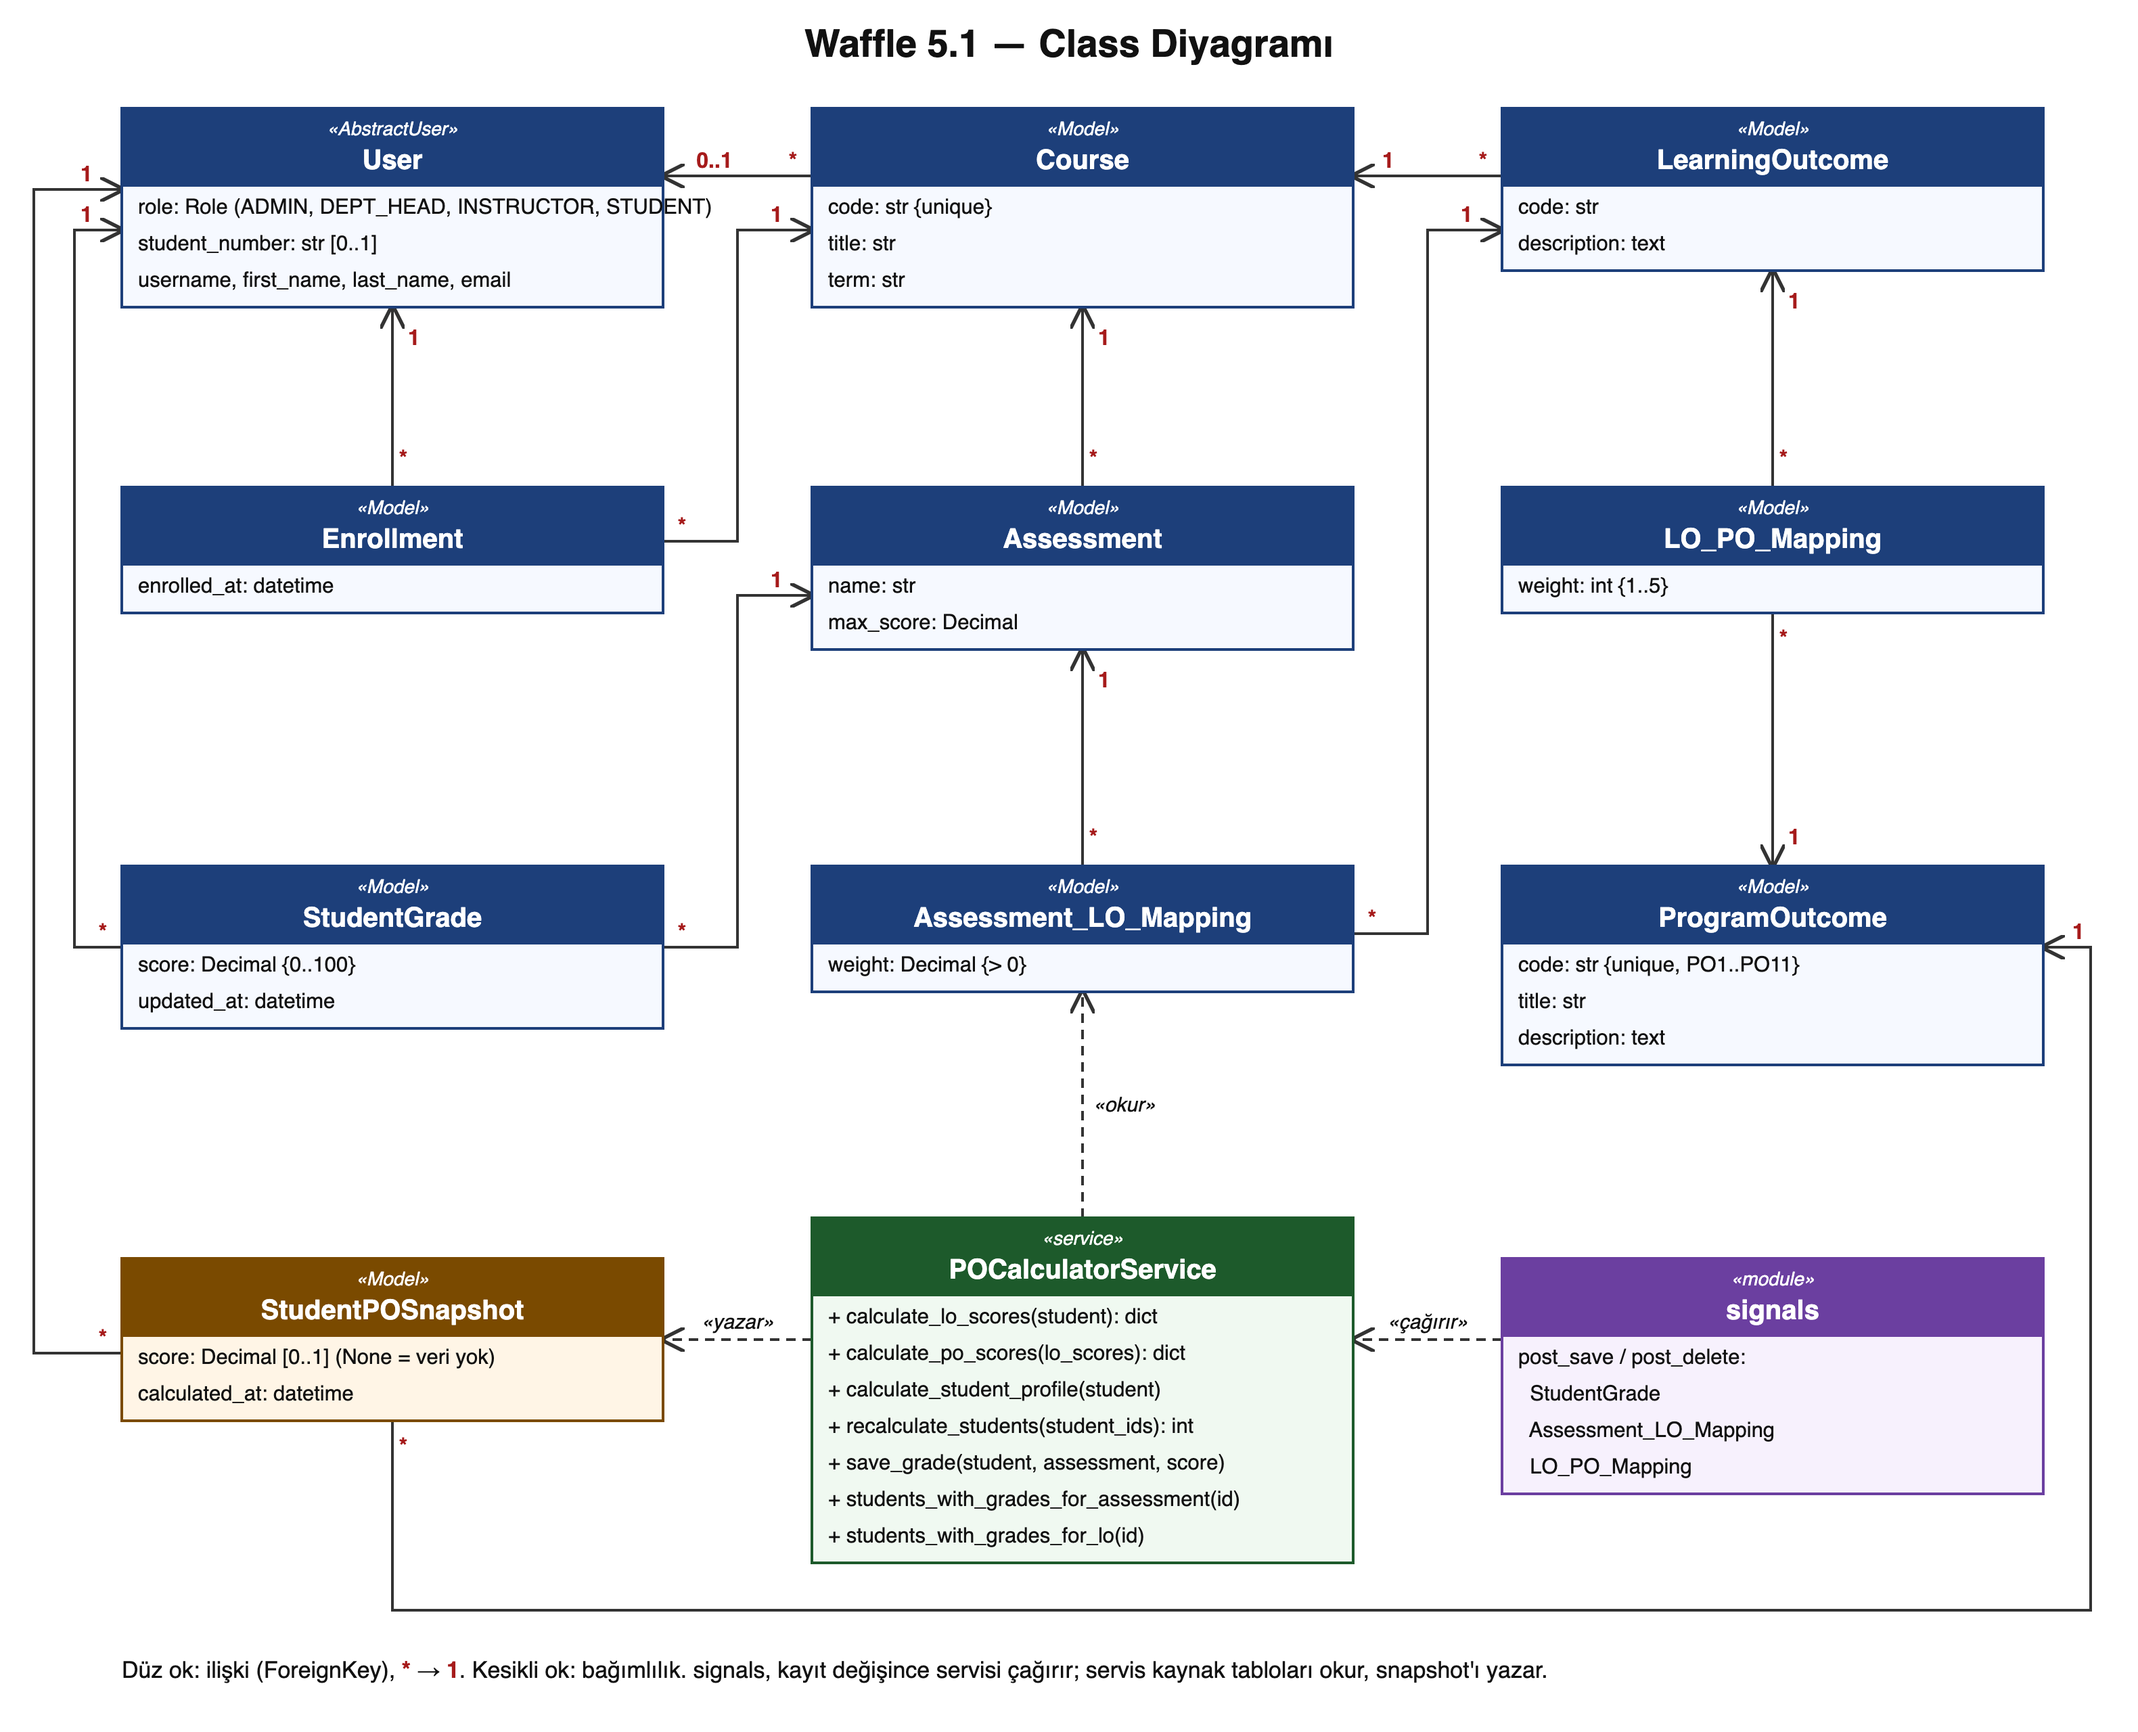
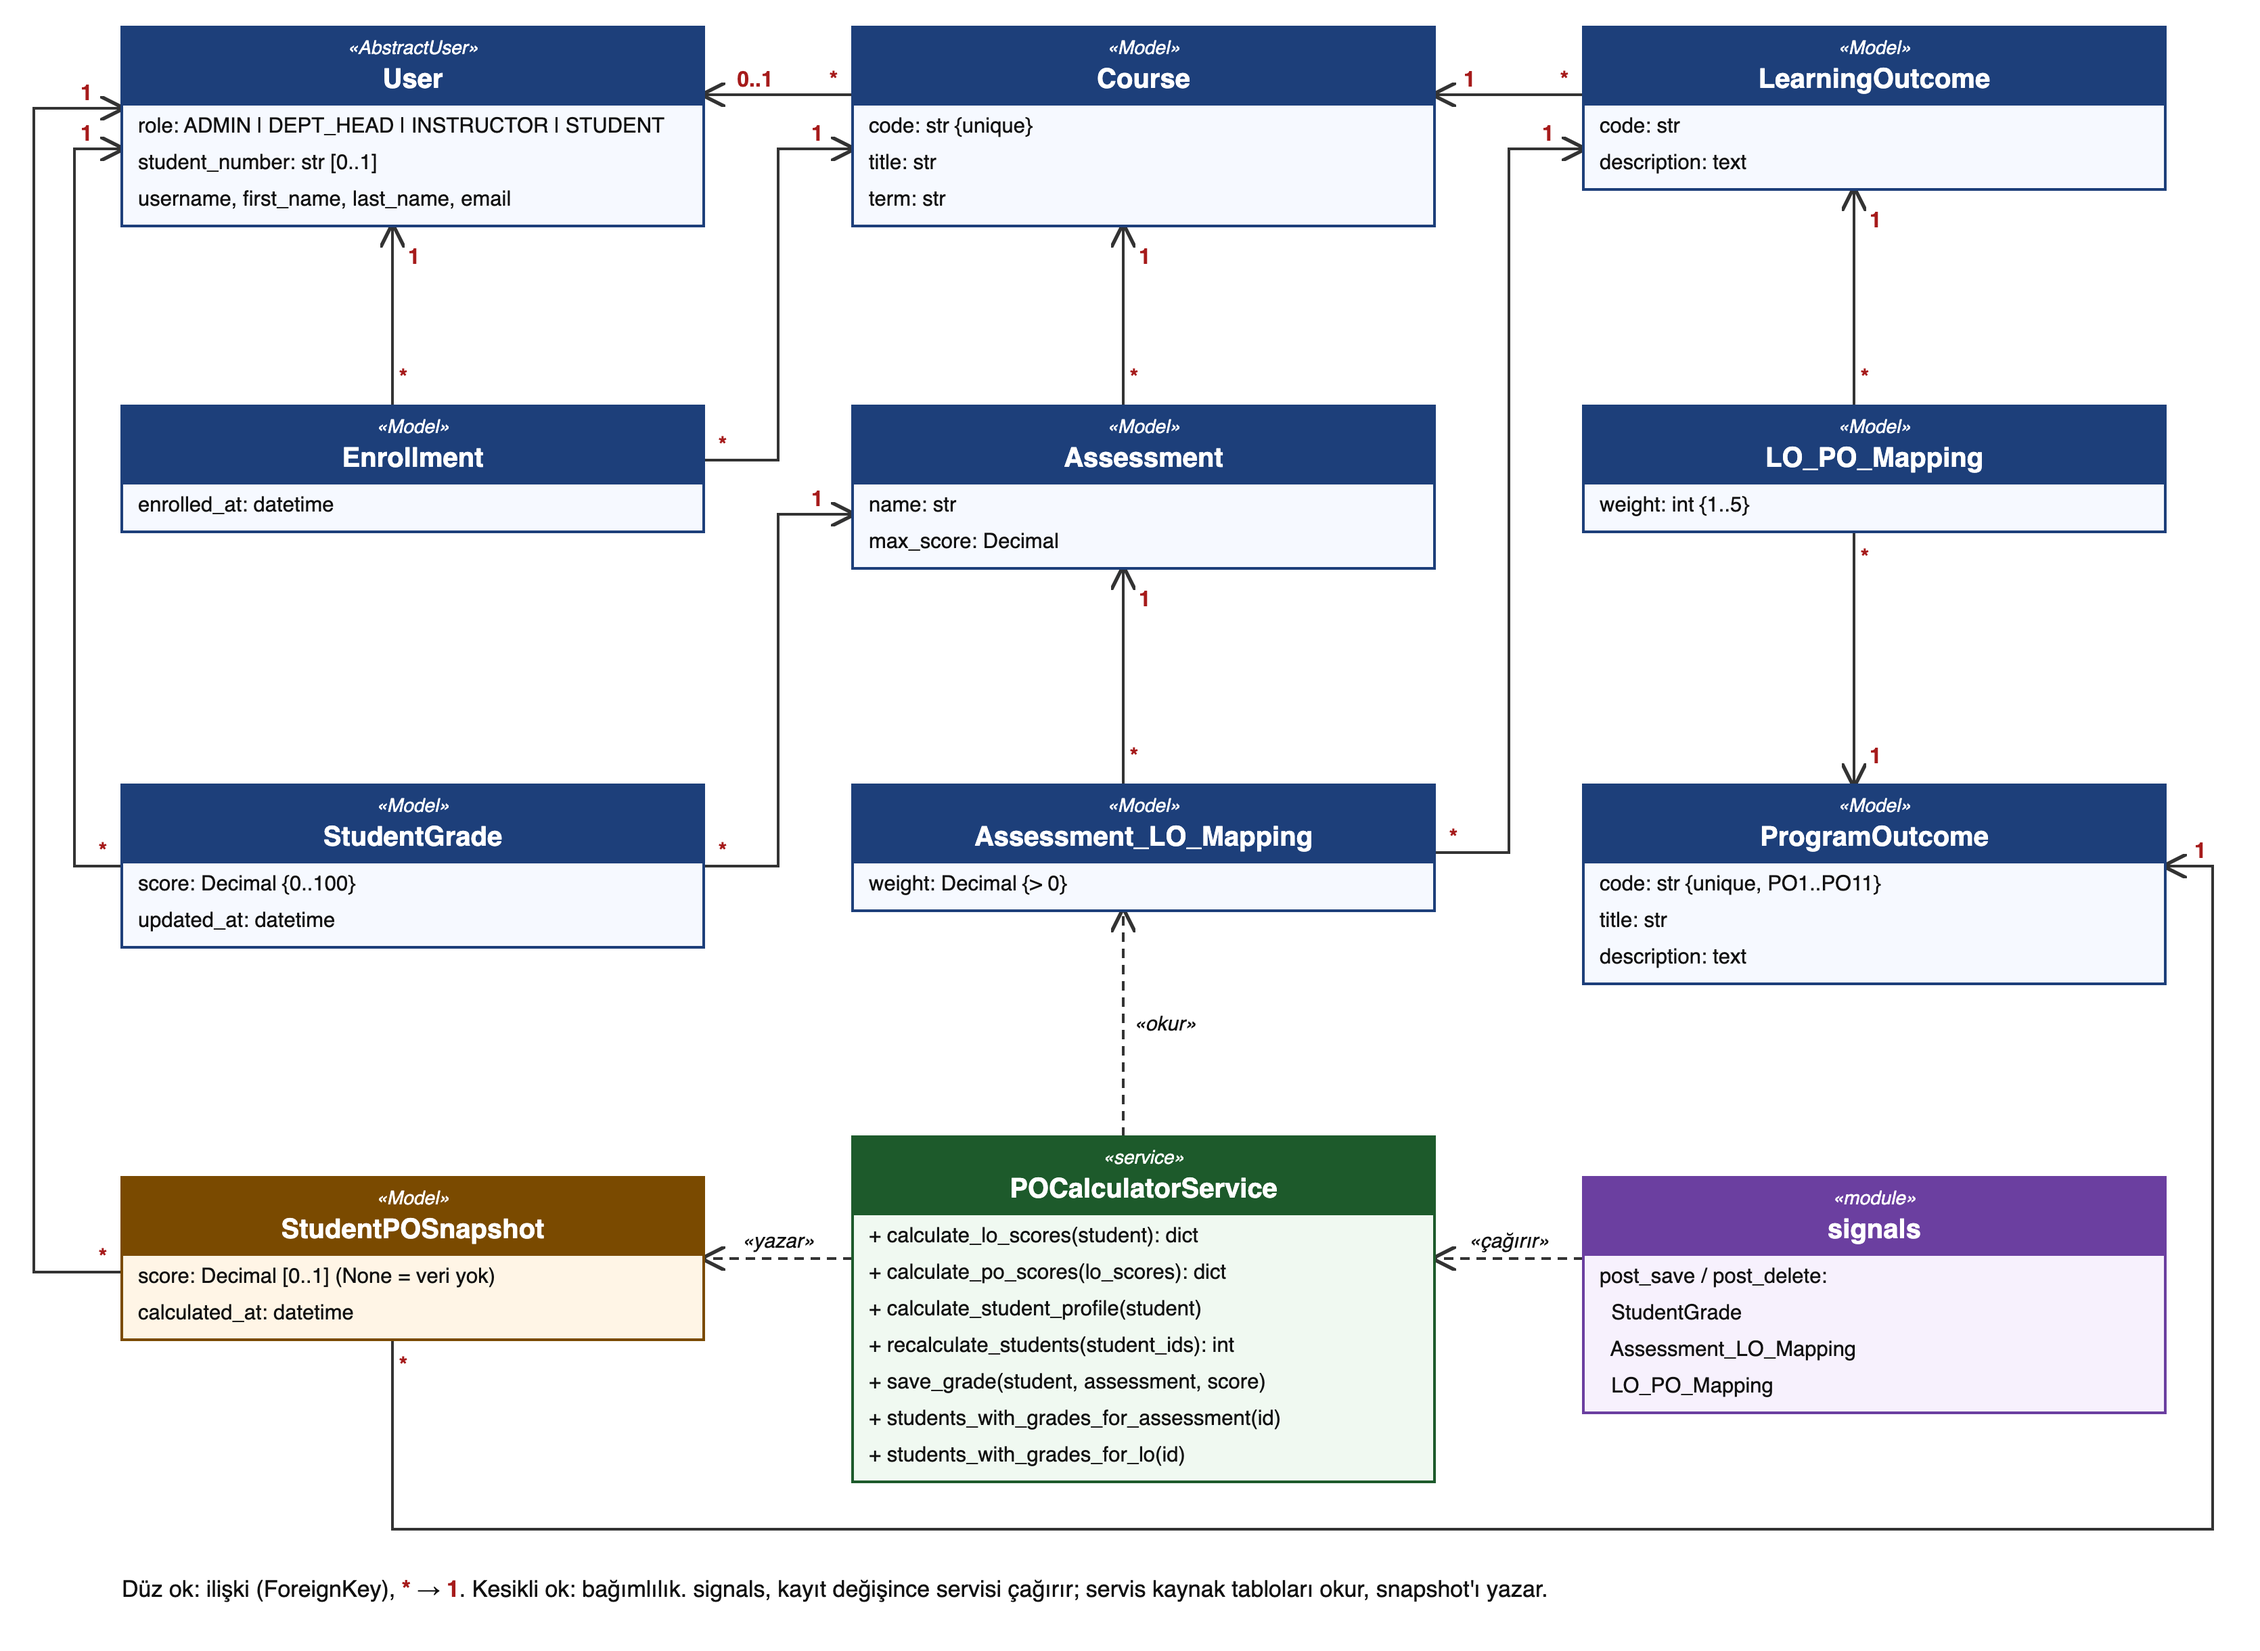
docs: widen class diagram boxes for print readability

diff --git a/docs/diagrams/_gen_class.py b/docs/diagrams/_gen_class.py
@@ -1,12 +1,12 @@
 """Class diyagramını (class.svg) üretir:  python docs/diagrams/_gen_class.py"""
 from pathlib import Path
 
-W, RH, HH = 400, 27, 42
+W, RH, HH = 430, 27, 42
 FS = 15
-C1, C2, C3 = 90, 600, 1110
+C1, C2, C3 = 90, 630, 1170
 # ad: (x, y, stereotype, alanlar, metotlar)
 T = {
-    "User": (C1, 80, "AbstractUser", ["role: Role  (ADMIN, DEPT_HEAD, INSTRUCTOR, STUDENT)", "student_number: str  [0..1]", "username, first_name, last_name, email"], []),
+    "User": (C1, 80, "AbstractUser", ["role: ADMIN | DEPT_HEAD | INSTRUCTOR | STUDENT", "student_number: str  [0..1]", "username, first_name, last_name, email"], []),
     "Course": (C2, 80, "Model", ["code: str  {unique}", "title: str", "term: str"], []),
     "LearningOutcome": (C3, 80, "Model", ["code: str", "description: text"], []),
     "Enrollment": (C1, 360, "Model", ["enrolled_at: datetime"], []),
@@ -46,16 +46,16 @@ A = [
     ([(C2, 130), (C1 + W, 130)], "*", "0..1", "instructor"),
     ([(C3, 130), (C2 + W, 130)], "*", "1", ""),
     ([(C1 + 200, 360), (C1 + 200, bot("User"))], "*", "1", "student"),
-    ([(C1 + W, 400), (545, 400), (545, 170), (C2, 170)], "*", "1", ""),
+    ([(C1 + W, 400), (575, 400), (575, 170), (C2, 170)], "*", "1", ""),
     ([(C2 + 200, 360), (C2 + 200, bot("Course"))], "*", "1", ""),
     ([(C3 + 200, 360), (C3 + 200, bot("LearningOutcome"))], "*", "1", ""),
     ([(C3 + 200, bot("LO_PO_Mapping")), (C3 + 200, 640)], "*", "1", ""),
     ([(C2 + 200, 640), (C2 + 200, bot("Assessment"))], "*", "1", ""),
-    ([(C2 + W, 690), (1055, 690), (1055, 170), (C3, 170)], "*", "1", ""),
+    ([(C2 + W, 690), (1115, 690), (1115, 170), (C3, 170)], "*", "1", ""),
     ([(C1, 700), (55, 700), (55, 170), (C1, 170)], "*", "1", "student"),
-    ([(C1 + W, 700), (545, 700), (545, 440), (C2, 440)], "*", "1", ""),
+    ([(C1 + W, 700), (575, 700), (575, 440), (C2, 440)], "*", "1", ""),
     ([(C1, 1000), (25, 1000), (25, 140), (C1, 140)], "*", "1", "student"),
-    ([(C1 + 200, bot("StudentPOSnapshot")), (C1 + 200, 1190), (1545, 1190), (1545, 700), (C3 + W, 700)], "*", "1", ""),
+    ([(C1 + 200, bot("StudentPOSnapshot")), (C1 + 200, 1190), (1635, 1190), (1635, 700), (C3 + W, 700)], "*", "1", ""),
 ]
 # Bağımlılıklar (kesikli): (noktalar, etiket)
 D = [
@@ -64,10 +64,9 @@ D = [
     ([(C2 + 200, 900), (C2 + 200, bot("Assessment_LO_Mapping"))], "«okur»"),
 ]
 
-o = ['<svg xmlns="http://www.w3.org/2000/svg" viewBox="0 0 1580 1280" font-family="Helvetica, Arial, sans-serif">',
+o = ['<svg xmlns="http://www.w3.org/2000/svg" viewBox="0 60 1670 1220" font-family="Helvetica, Arial, sans-serif">',
      '<defs><marker id="a" viewBox="0 0 10 10" refX="9" refY="5" markerWidth="9" markerHeight="9" orient="auto"><path d="M0 0L10 5L0 10" fill="none" stroke="#333" stroke-width="1.5"/></marker></defs>',
-     '<rect width="1580" height="1280" fill="#fff"/>',
-     '<text x="790" y="42" text-anchor="middle" font-size="28" font-weight="bold" fill="#111">Waffle 5.1 — Class Diyagramı</text>']
+     '<rect width="1670" height="1280" fill="#fff"/>',]
 for pts, child, parent, name in A:
     o.append(f'<polyline points="{" ".join(f"{x},{y}" for x, y in pts)}" fill="none" stroke="#333" stroke-width="2" marker-end="url(#a)"/>')
     (x0, y0), (x1, y1) = pts[0], pts[1]
